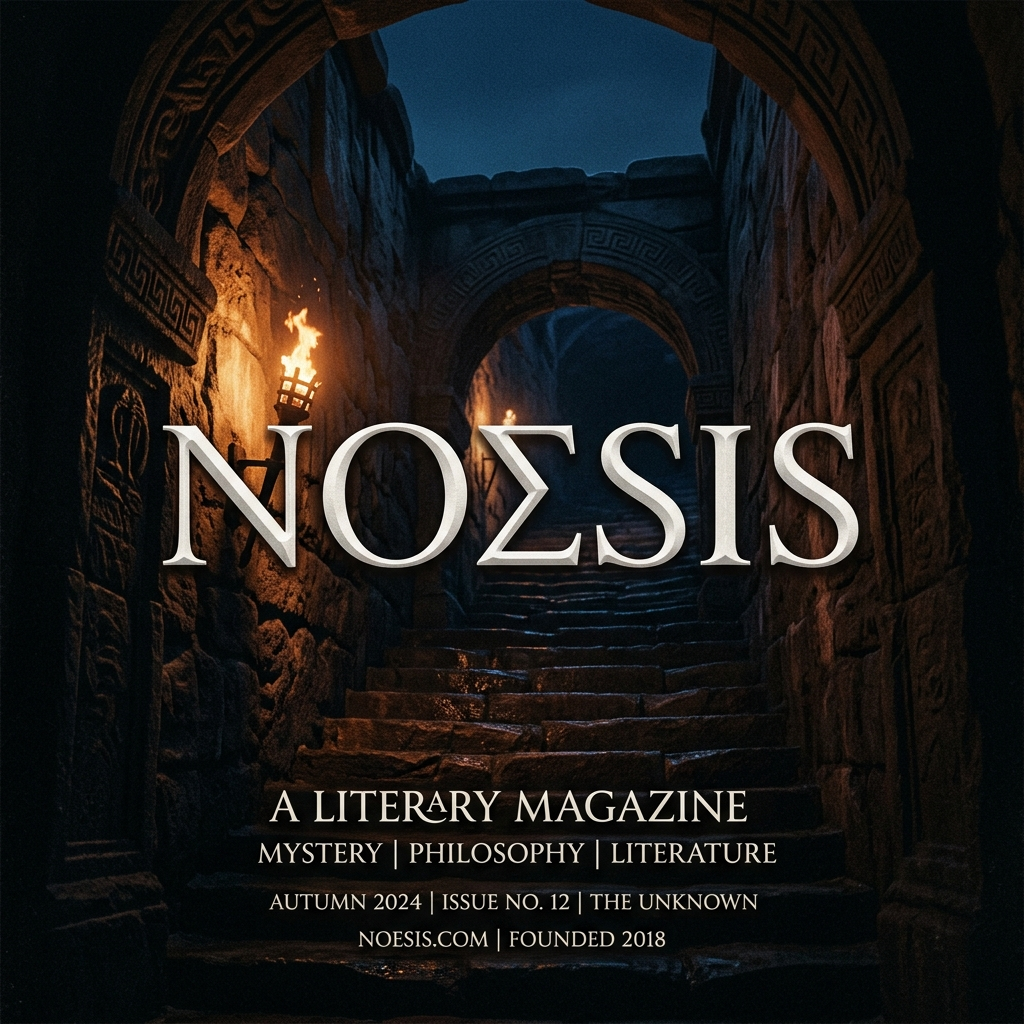
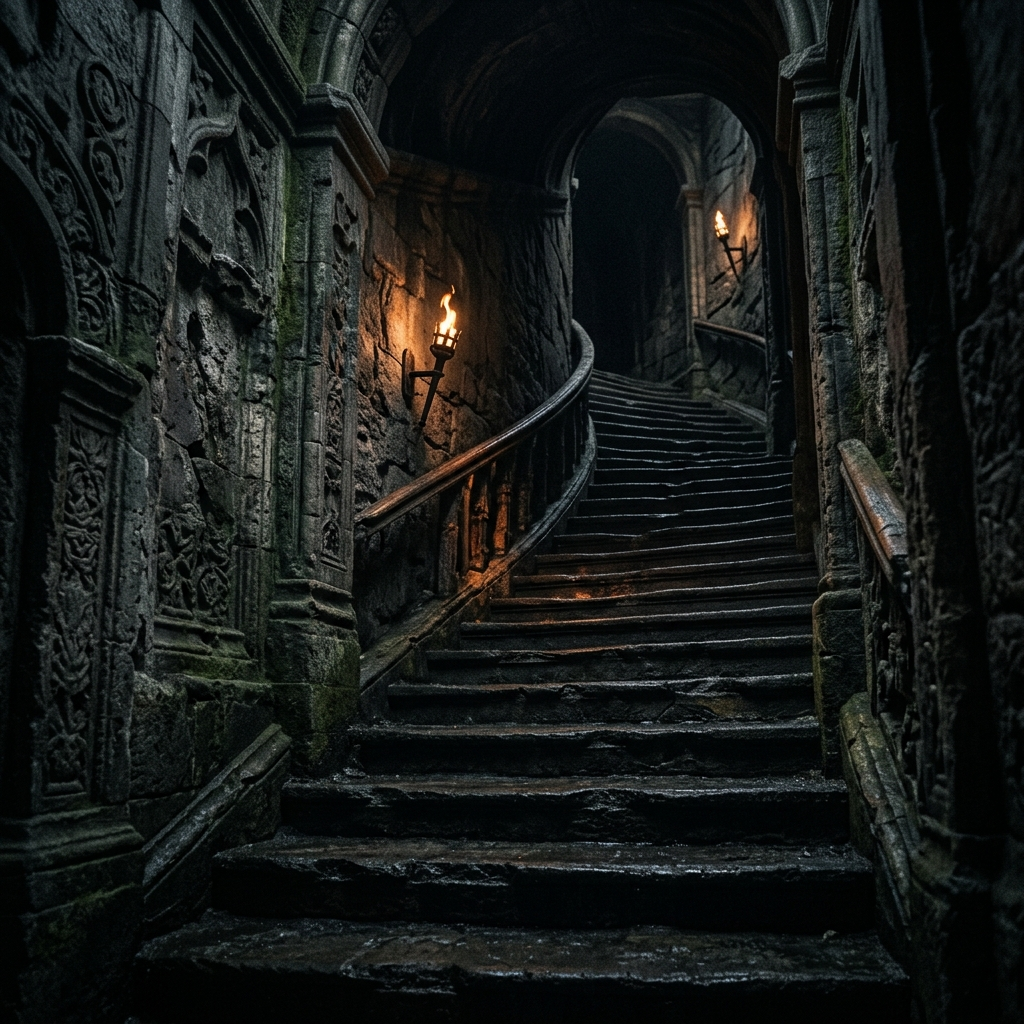
feat(about): update Noesis card background image and text to CREATIVITY | EDITORIAL | PHOTOGRAPHY

diff --git a/src/pages/public/AboutPage.tsx b/src/pages/public/AboutPage.tsx
@@ -287,8 +287,8 @@ export function AboutPage() {
                         </div>
 
                         <div className="space-y-4 relative z-10">
-                            <p className="text-body-sm text-dark-100 leading-relaxed font-mono drop-shadow">
-                                WORDS · BRUSH STROKES · PIXELS
+                            <p className="text-body-sm text-dark-100 leading-relaxed font-mono drop-shadow uppercase tracking-wider font-medium">
+                                CREATIVITY | EDITORIAL | PHOTOGRAPHY
                             </p>
                             <div className="h-px bg-white/20" />
                             <div className="flex justify-between items-center text-caption text-dark-300 font-mono">